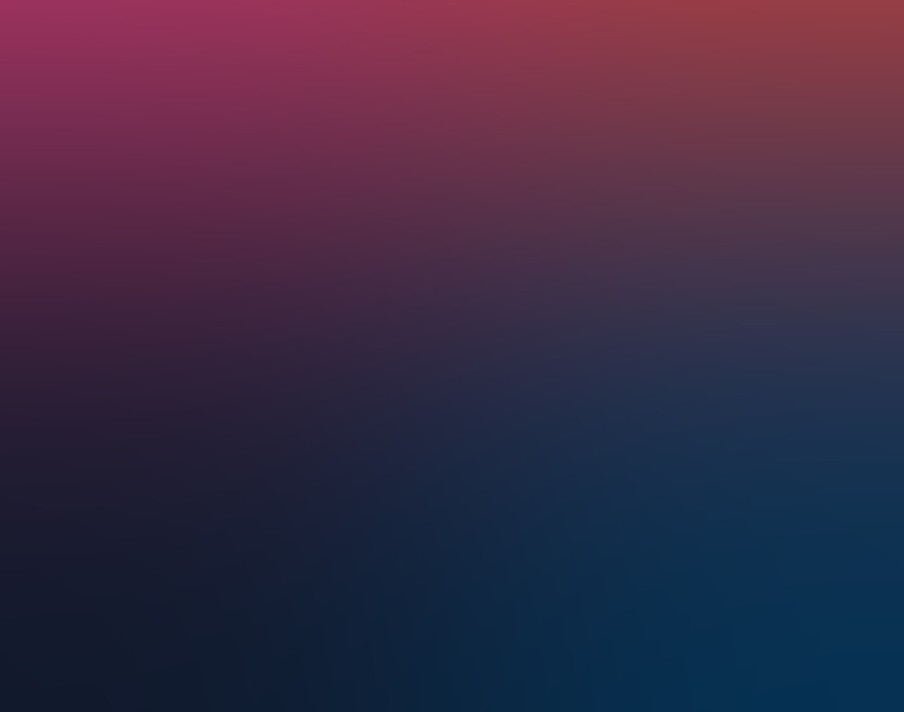
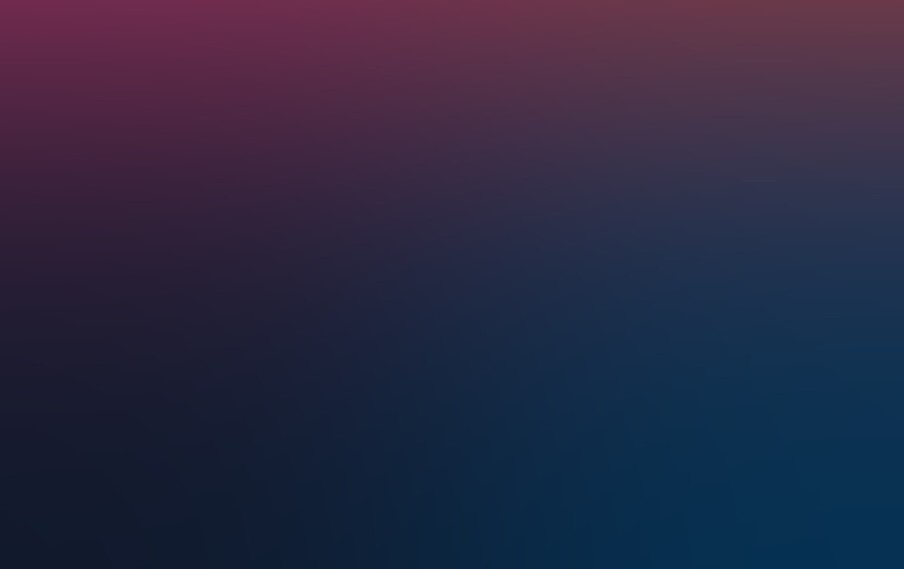
d

diff --git a/src/App.css b/src/App.css
@@ -6,7 +6,8 @@
   color: var(--whitelight);
   min-height: 100vh;
 
-  background-image: url('./assets/background4.jpg');
+  /* background-image: url('./assets/background4.jpg'); */
+  background-image: linear-gradient(to left bottom, #6f2c4d, #612d55, #502f59, #3d315b, #293259, #203054, #172e4f, #0e2b49, #112742, #12223b, #121e34, #121a2d);
   background-size: 100% 100%;
   background-repeat: no-repeat;
   background-attachment: fixed;
